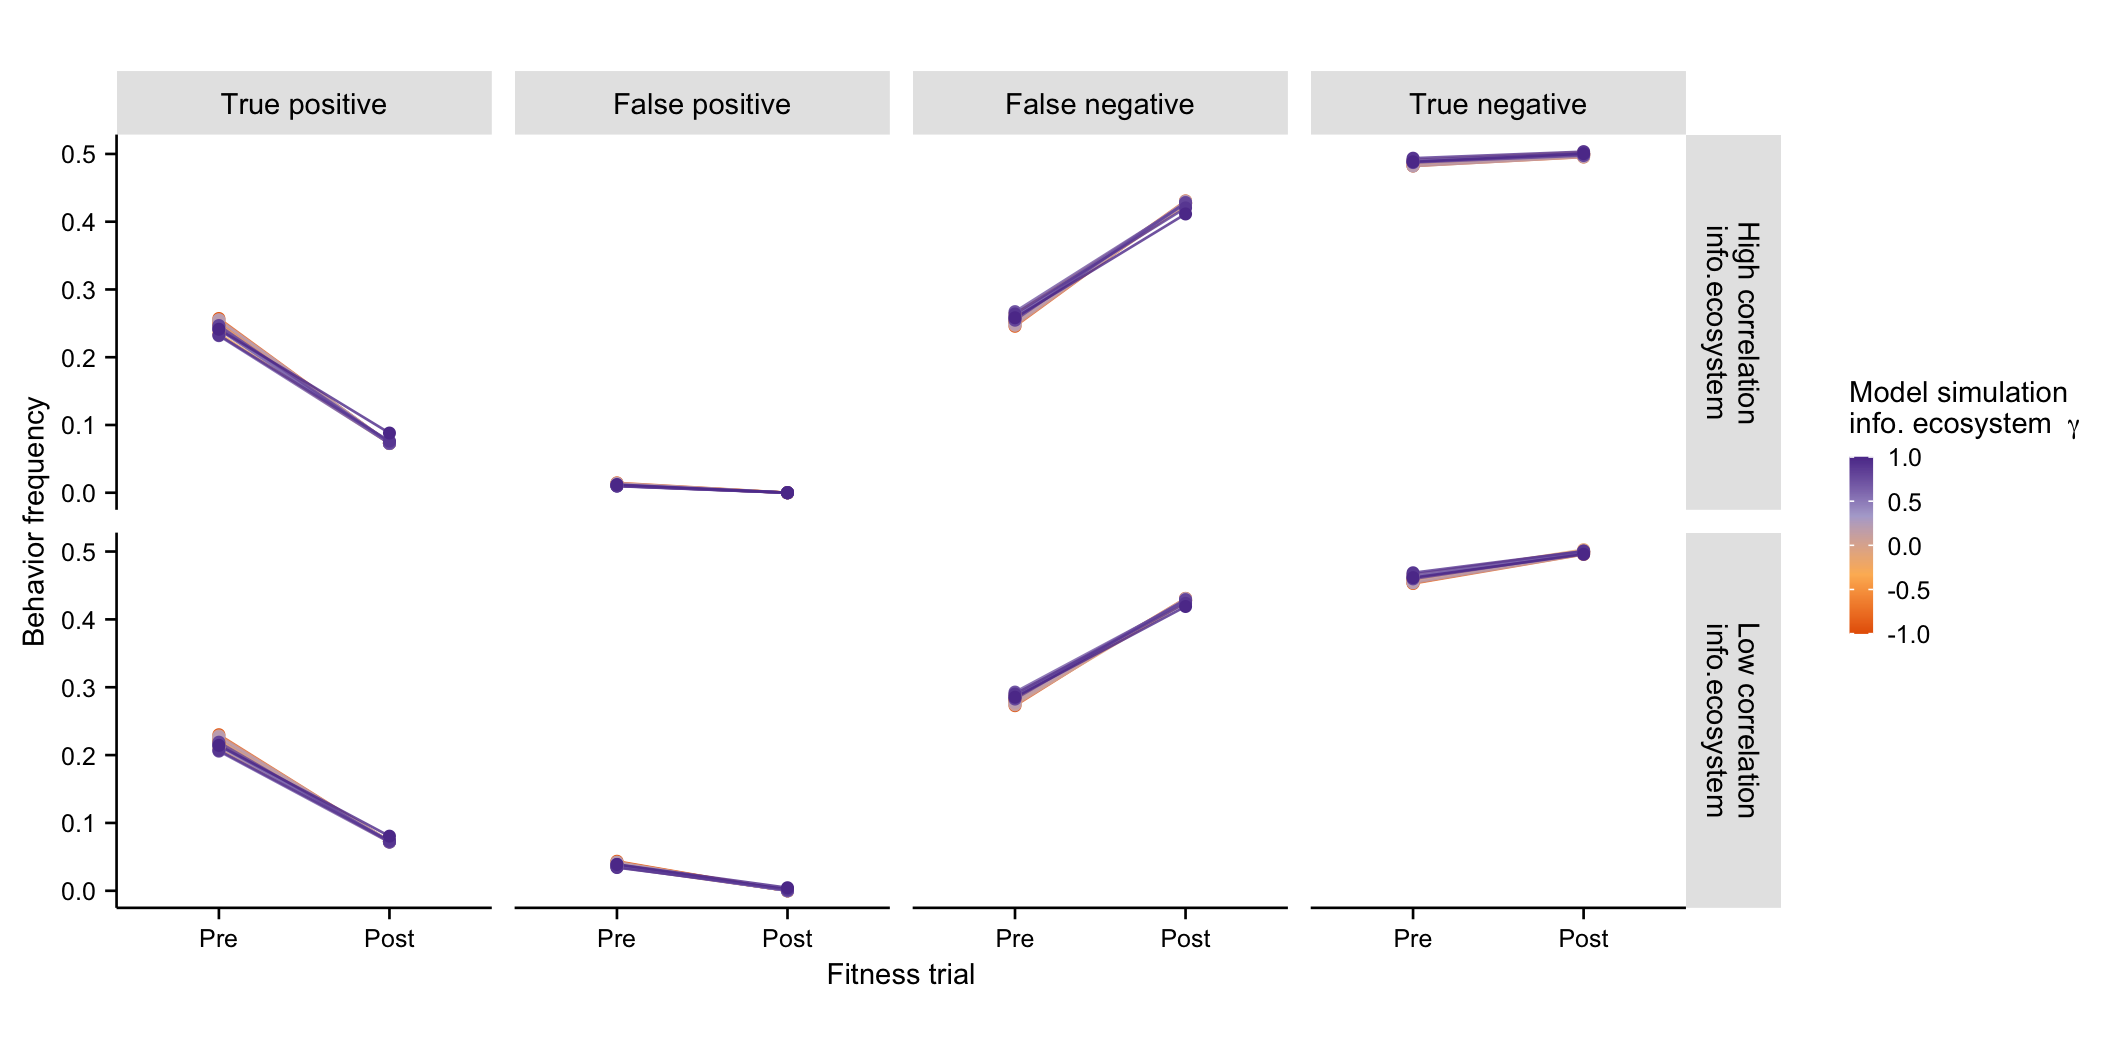
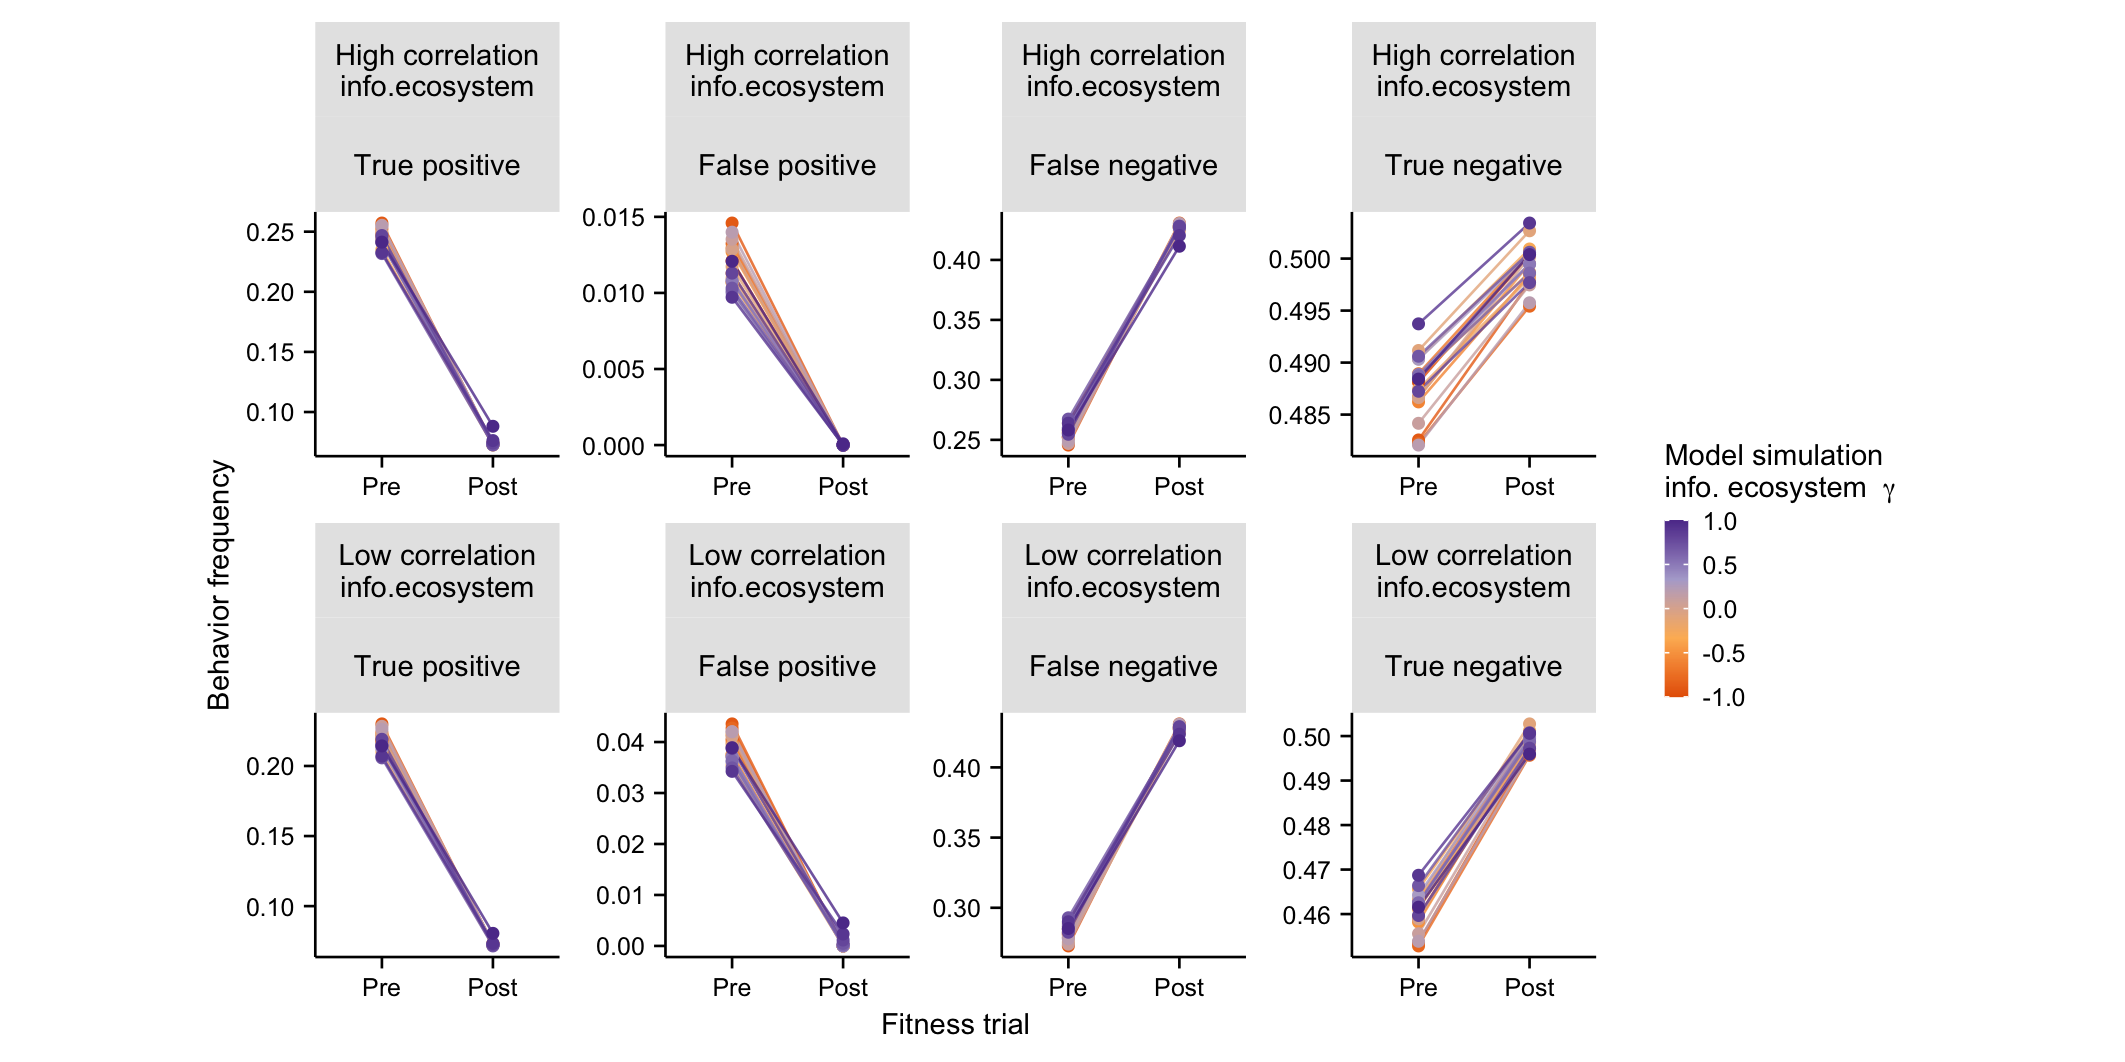
adjust same gamma plot

diff --git a/scripts/process_fitnesstrials.py b/scripts/process_fitnesstrials.py
@@ -28,12 +28,12 @@ trial_length = 10000
 raw_data = False
 
 # Directory where simulation data is found
-fit_dir = '../data_sim/network_break/fitness_data/'  
+fit_dir = '../data_sim/network_break/__suppl_sims/same_gamma_fitnesstrials/fitness_data/'  
 thresh_dir = '../data_sim/network_break/thresh_data/'
 tags = 'highcorr' #file tags that designate runs from a particular simulation
 
 # For output
-outpath = '../data_derived/network_break/fitness_trials/'
+outpath = '../data_derived/network_break/__suppl_analysis/same_gamma_fitnesstrials/fitness_trials/'
 filetags = 'highcorr' #added info, particularly for suppl simulations e.g., 'fitness_<filetag>_
 if len(filetags) > 0:
     filetags = '_' + filetags
